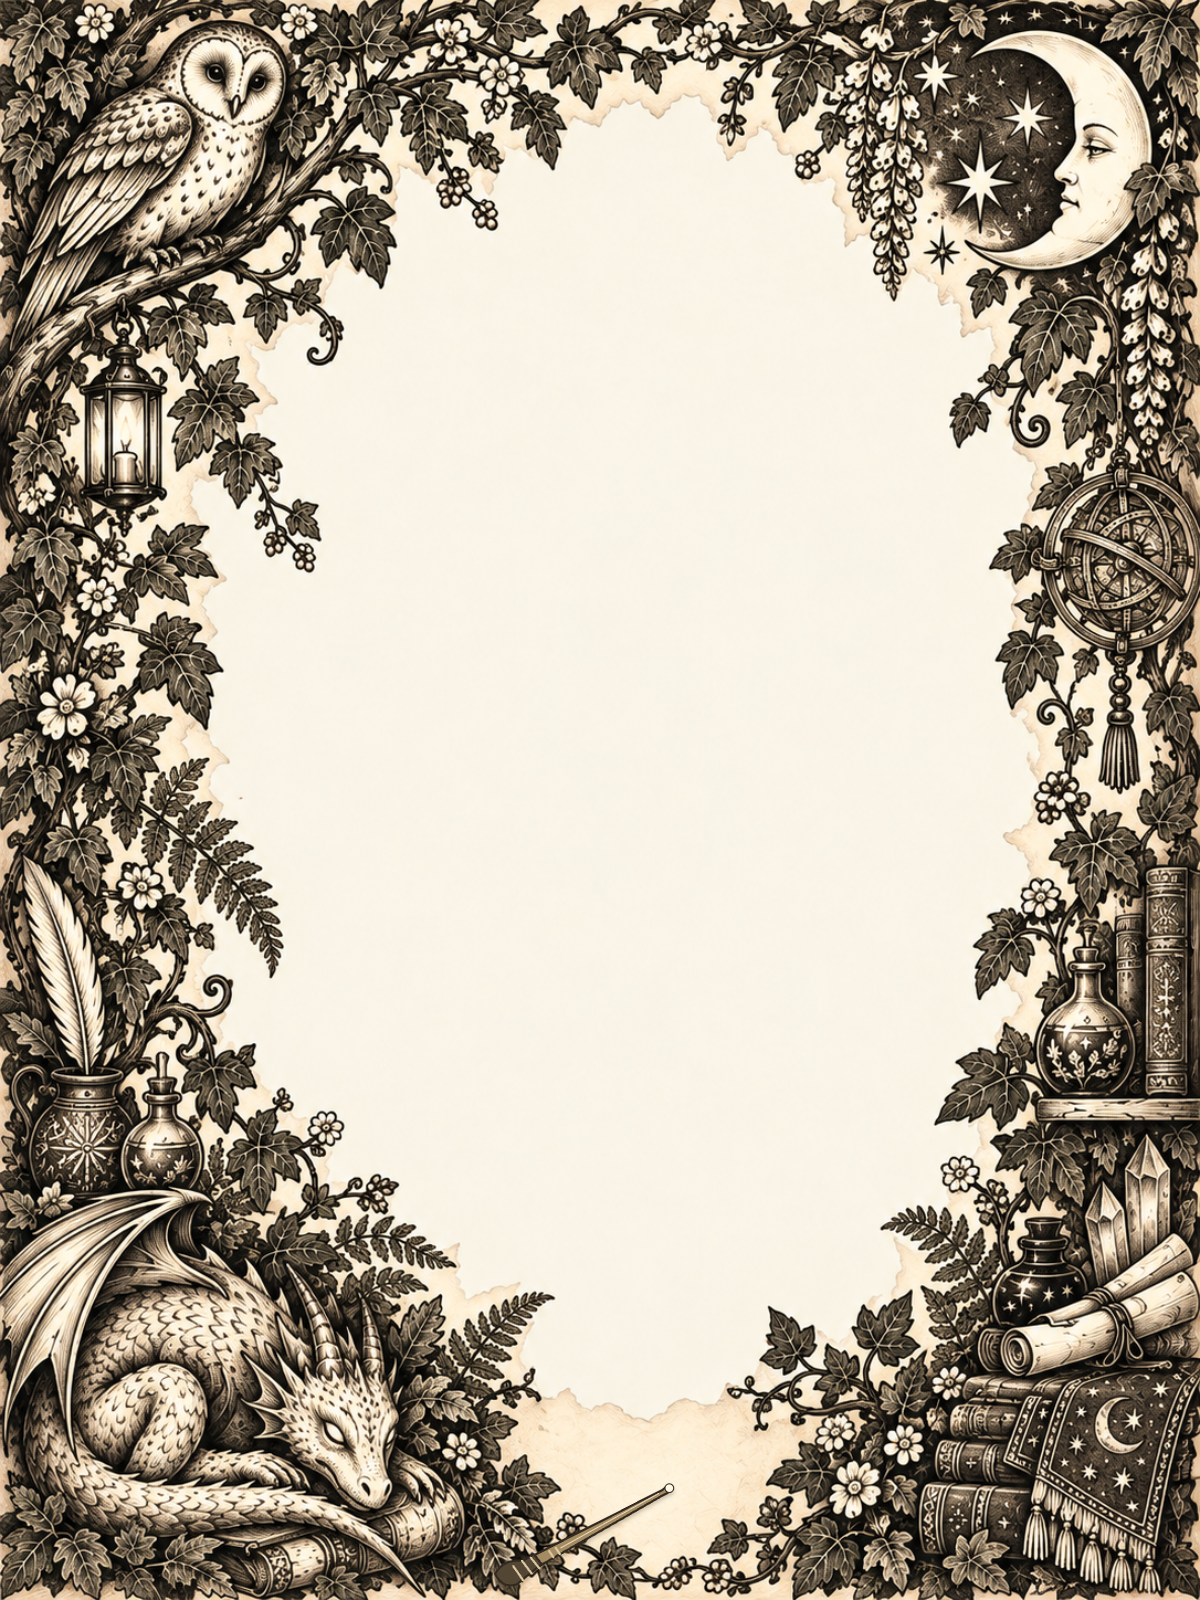
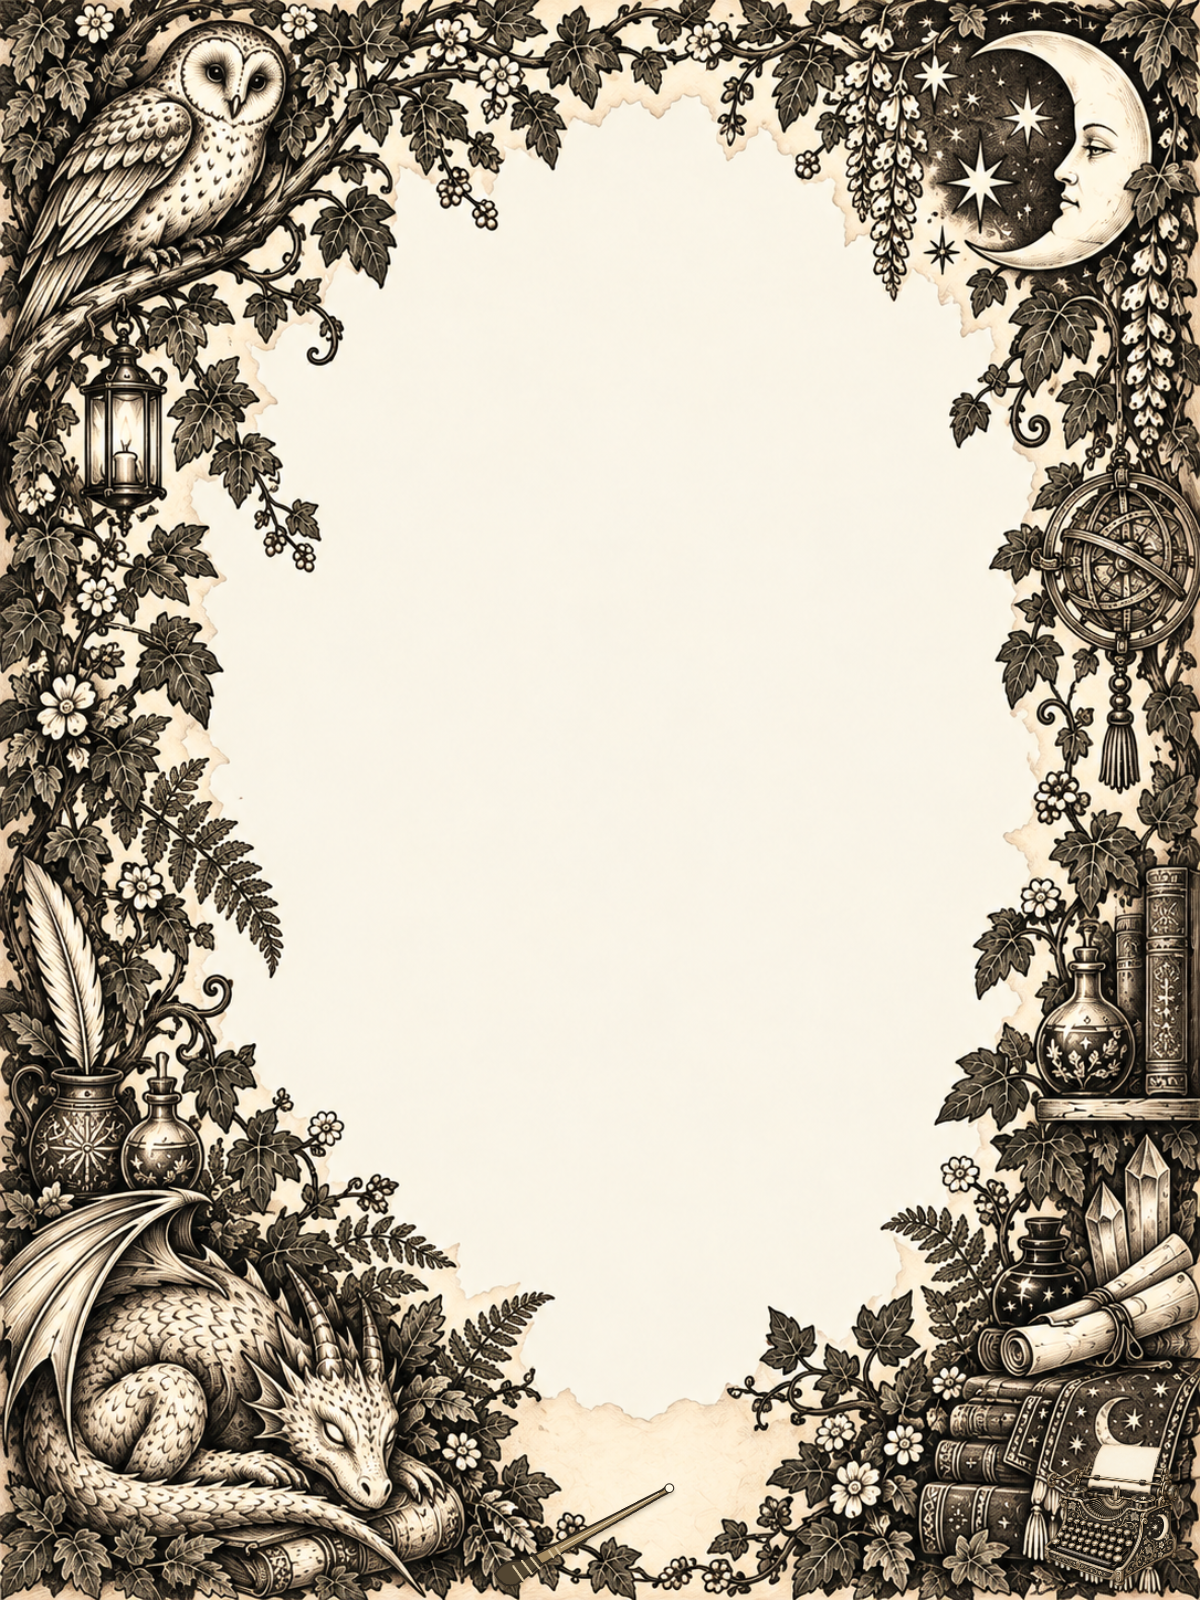
Restore the illustrated typewriter within immersive mode

Changed region(s): [[0.8633, 0.9062, 0.9867, 1.0]]

diff --git a/web/tests/desk.e2e.ts b/web/tests/desk.e2e.ts
@@ -482,7 +482,7 @@ for (const mode of ["pen-button", "pen-bitmask", "toolbar"] as const) {
 }
 
 test('typewriter focuses the bubble, retains words, and casts once', async ({page}) => {
-  await page.goto('/?mode=desk'); await draw(page);
+  await page.goto('/'); await draw(page);
   await page.getByRole('button',{name:'Type a spell',exact:true}).click();
   const field=page.getByRole('textbox',{name:'Type your spell',exact:true});
   await expect(field).toBeFocused();
@@ -503,7 +503,7 @@ test('typewriter focuses the bubble, retains words, and casts once', async ({pag
   expect(requests).toBe(1);
 });
 test('typewriter bubble fits narrow keyboard-sized viewport',async({page})=>{
-  await page.setViewportSize({width:390,height:500});await page.goto('/?mode=desk');
+  await page.setViewportSize({width:390,height:500});await page.goto('/');
   await page.getByRole('button',{name:'Type a spell',exact:true}).click();
   await expect(page.getByRole('textbox',{name:'Type your spell',exact:true})).toBeInViewport();
   await expect(page.getByRole('button',{name:'Cast typed spell',exact:true})).toBeInViewport();
@@ -512,11 +512,11 @@ test('typewriter bubble fits narrow keyboard-sized viewport',async({page})=>{
 });
 
 
-test('immersive mode shows only the frame, parchment and wand, including while casting', async ({page}) => {
+test('immersive mode keeps the wand and illustrated typewriter, including while casting', async ({page}) => {
  await page.goto('/');
  await expect(page.locator('.immersive-mode')).toBeVisible();
- await expect(page.getByRole('button')).toHaveCount(1);
- await expect(page.locator('.typewriter-key')).not.toBeVisible();
+ await expect(page.getByRole('button')).toHaveCount(2);
+ await expect(page.locator('.typewriter-key')).toBeVisible();
  await expect(page.locator('.desk-latch')).not.toBeVisible();
  await expect(page.locator('.empty-parchment')).not.toBeVisible();
  await draw(page);
@@ -530,14 +530,14 @@ test('immersive mode shows only the frame, parchment and wand, including while c
  // Set up casting independently of the separately tested speech adapter.
  await page.locator('.cast-button').evaluate((b:HTMLButtonElement)=>b.click());
  await expect(page.locator('.phase-casting')).toBeVisible();
- await expect(page.getByRole('button')).toHaveCount(1);
+ await expect(page.getByRole('button')).toHaveCount(2);
  await page.locator('.voice-wand').click();
  await expect(page.locator('.spell-fog')).toHaveCount(0);
  await page.waitForTimeout(1300);
  await expect(page.locator('.manifestation')).toHaveCount(0);
  await page.locator('.cast-button').evaluate((b:HTMLButtonElement)=>b.click());
  await expect(page.locator('.manifestation.image-ready')).toBeVisible();
- await expect(page.getByRole('button')).toHaveCount(1);
+ await expect(page.getByRole('button')).toHaveCount(2);
  await page.locator('.voice-wand').click();
  await expect(page.locator('.manifestation')).toHaveCount(0);
  expect(await png(page)).toBe(original);

diff --git a/web/scripts/immersive-mode-smoke.ts b/web/scripts/immersive-mode-smoke.ts
@@ -7,9 +7,10 @@ try {
  await page.getByLabel('Room passphrase').fill((await readFile('.env.access','utf8')).trim().split('=')[1]);
  await page.getByRole('button',{name:'Open the room',exact:true}).click();
  await page.locator('.immersive-mode').waitFor();
- if(await page.getByRole('button').count()!==1)throw new Error('Unexpected visible controls');
- if(await page.locator('.typewriter-key').isVisible() || await page.locator('.desk-latch').isVisible())throw new Error('Extra UI visible');
+ if(await page.getByRole('button').count()!==2)throw new Error('Unexpected visible controls');
+ if(!await page.locator('.typewriter-key').isVisible() || await page.locator('.desk-latch').isVisible())throw new Error('Extra UI visible');
+ await page.locator('.typewriter-key img').evaluate(async (img: HTMLImageElement) => img.decode());
  await page.screenshot({path:'../docs/evidence/immersive-mode-hosted.png'});
- const result={date:new Date().toISOString(),mode:'immersive',visibleControls:1,frameParchmentWandOnly:'PASS'};
+ const result={date:new Date().toISOString(),mode:'immersive',visibleControls:2,frameParchmentWandAndTypewriter:'PASS'};
  await writeFile('../docs/evidence/immersive-mode-hosted.json',JSON.stringify(result,null,2)+'\n');console.log(result);
 } finally {await browser.close();}

diff --git a/web/src/styles.css b/web/src/styles.css
@@ -1845,7 +1845,6 @@ dialog::backdrop {
 @media (max-height: 500px) { .type-bubble { bottom: max(20px, var(--keyboard-inset, 0px)); padding: 12px 18px; } .type-bubble textarea { min-height: 50px; } }
 /* Immersive mode: the frame, parchment and wand are the entire visible interface. */
 .immersive-mode .desk-latch,
-.immersive-mode .typewriter-key,
 .immersive-mode .ritual-cancel,
 .immersive-mode .empty-parchment,
 .immersive-mode .room-message button { display: none; }

diff --git a/docs/IMMERSIVE-ROOM.md b/docs/IMMERSIVE-ROOM.md
@@ -19,3 +19,5 @@ Final deployment: 739e3765-d65a-44d6-95be-0cdddf8f244e on the existing Railway U
 The default URL now displays only the illustrated frame, parchment and wand. Typewriter, desk latch, opening invitation, status captions and separate cancellation controls are hidden. Status/error announcements remain available to assistive technology without visual panels. The wand remains available during casting to cancel; after a finished manifestation, tapping it returns to the intact sketch. The previous tool/typewriter interface can be restored using `?mode=desk`, providing a reversible rollout without adding any visible mode switch. This supersedes the earlier typewriter-as-default layout described above.
 
 Deployment: b61ff465-c94d-4d66-bd9e-3c2392c455ff. The affected QA profile passed in evidence/qa-immersive-only. A focused synthetic test also verified one visible control during casting, cancellation of late results, and returning to the unchanged original drawing. Hosted proof is in evidence/immersive-mode-hosted.json.
+
+Owner clarification: the illustrated typewriter is part of the frame, not extraneous chrome. It is restored in the bottom-right corner of default immersive mode; tapping it opens the existing speech bubble and focuses the keyboard field. The desk latch, status captions, invitation and separate cancel controls stay hidden. The latest checks are in evidence/qa-immersive-typewriter-restored; immersive mode now has two visible illustrated controls, the wand and typewriter.

diff --git a/docs/evidence/qa-immersive-typewriter-restored/report.md b/docs/evidence/qa-immersive-typewriter-restored/report.md
@@ -1,0 +1,19 @@
+# Daylight QA — PASS
+
+Generated: `2026-09-11T07:06:16Z`  
+Run type: `repository-checks`
+
+| Status | Count |
+| --- | ---: |
+| PASS | 3 |
+| FAIL | 0 |
+| BLOCKED | 0 |
+| SKIP | 0 |
+
+## Checks
+
+| Result | Required | Check | Duration | Detail |
+| --- | --- | --- | ---: | --- |
+| PASS | yes | `incant-web/production-build` | 12.938s |  |
+| PASS | yes | `incant-web/unit-contracts` | 3.335s |  |
+| PASS | yes | `incant-web/browser-flows` | 78.646s |  |
